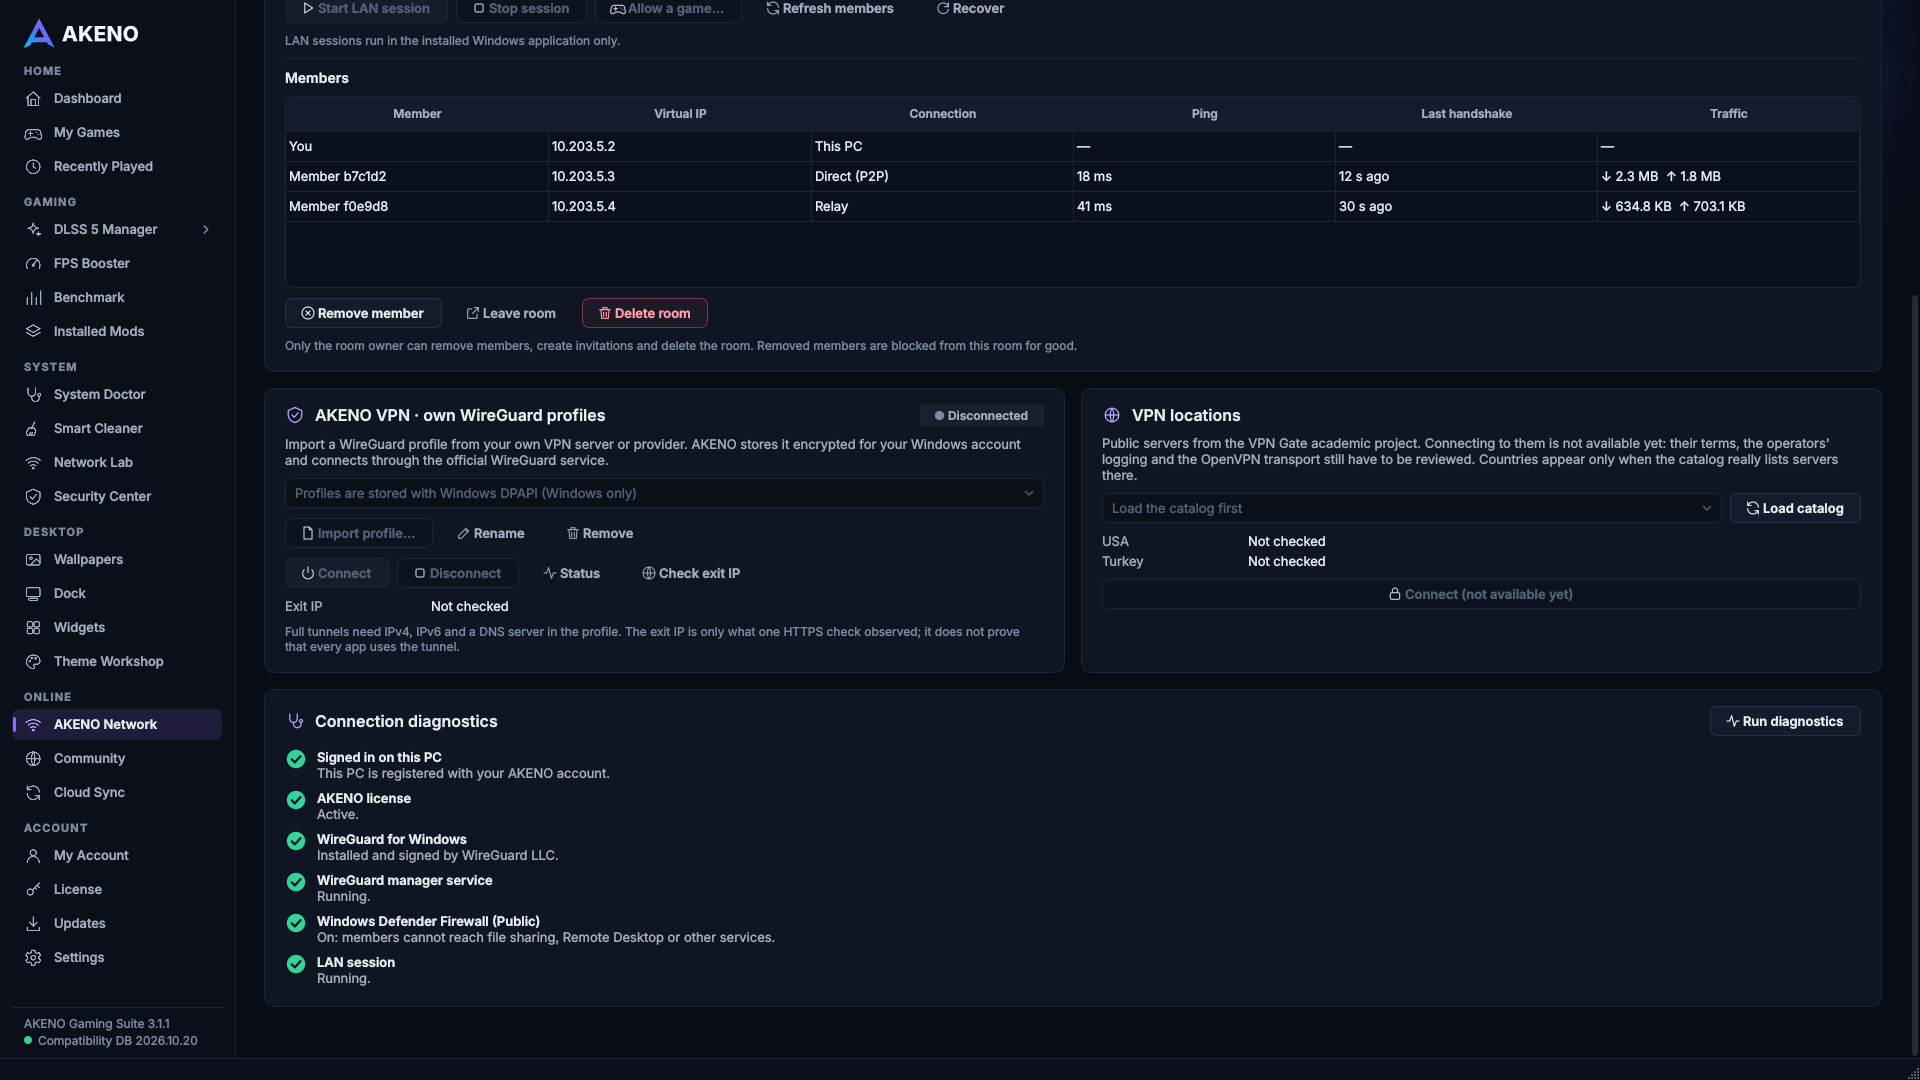
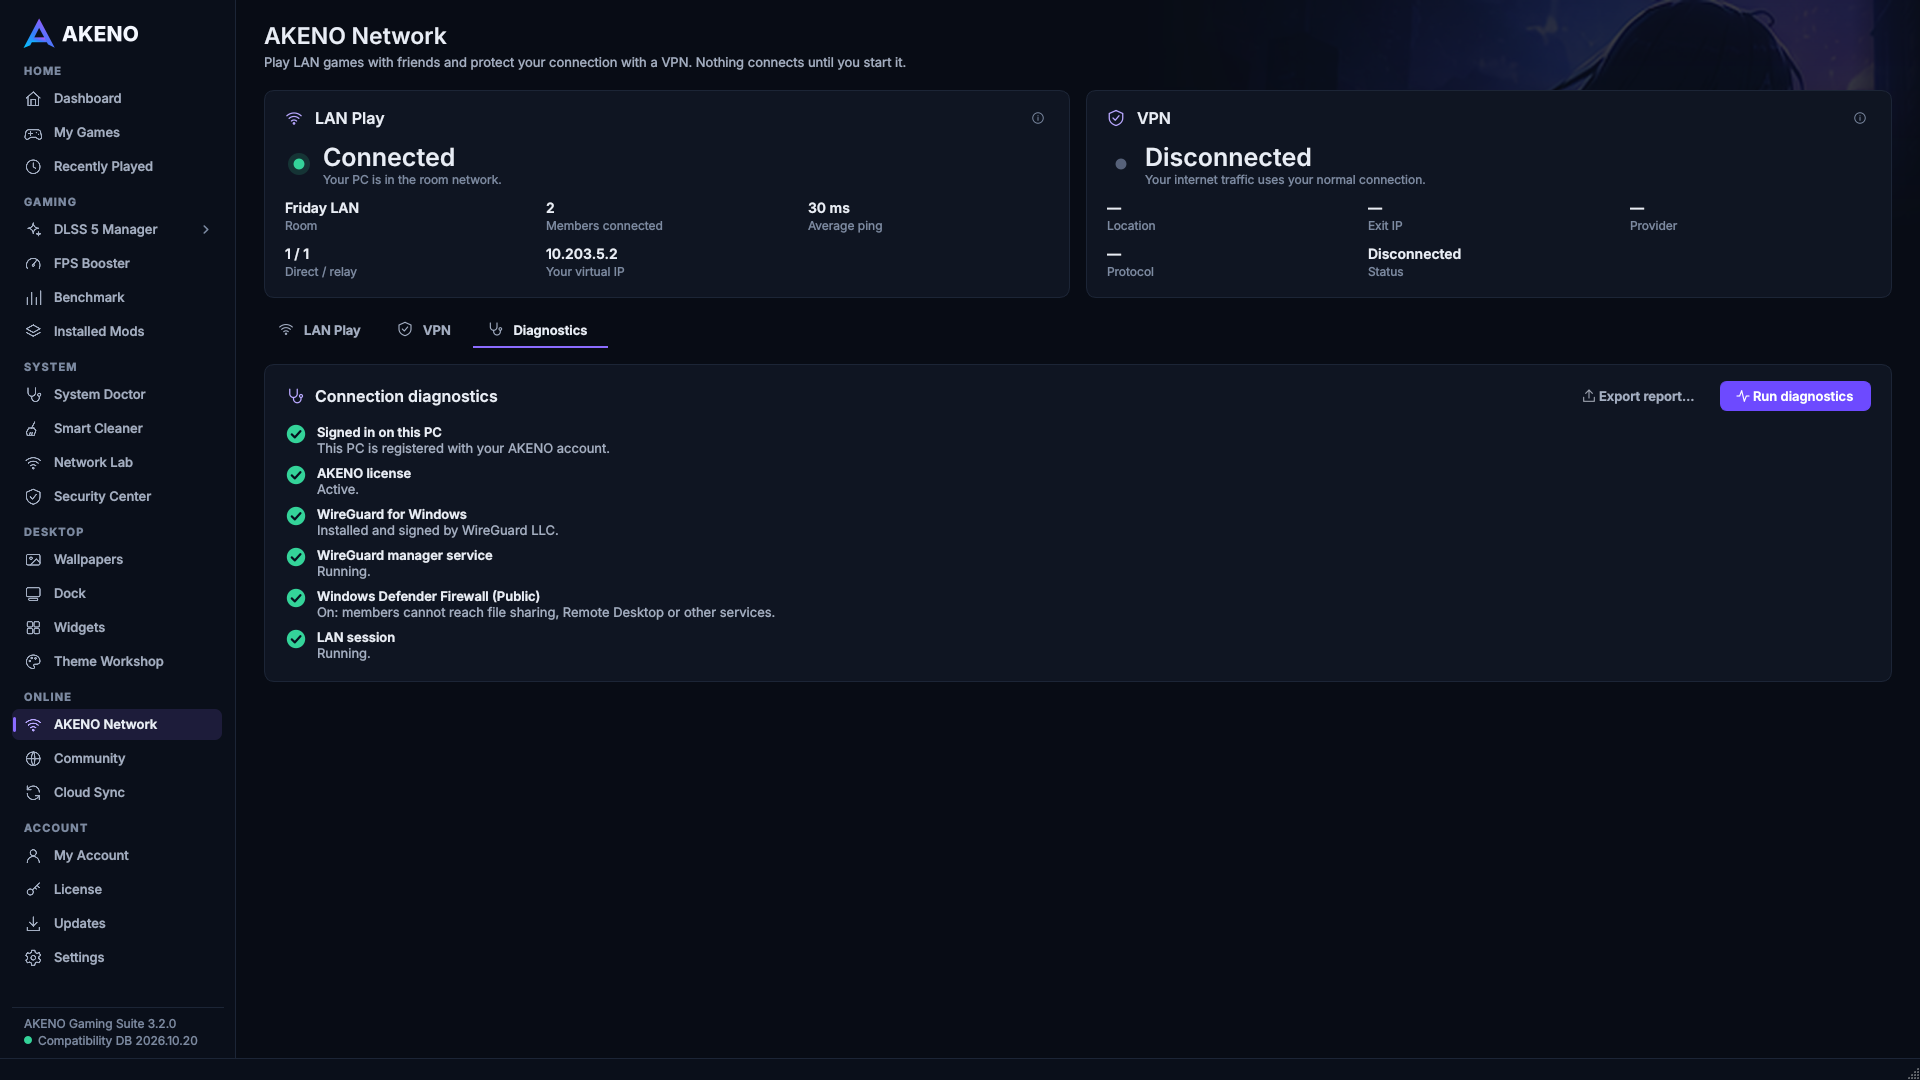
screenshots: regenerated AKENO Network fixture screenshots for the redesign (synthetic data, labelled)
Claude-Session: https://claude.ai/code/session_013cyXYQpfvMVycNXpgoCr1h

diff --git a/akeno/ui/pages/akeno_network.py b/akeno/ui/pages/akeno_network.py
@@ -457,7 +457,7 @@ class AkenoNetworkPage(QWidget):
                 item = QTableWidgetItem(v)
                 if c == 0:
                     item.setData(256, m['actor'])
-                    item.setIcon(QIcon(avatar_pixmap(m['actor'], m.get('name') or ('You' if m.get('self') else 'M'))))
+                    item.setIcon(QIcon(avatar_pixmap(m['actor'], m.get('name') or (t('You') if m.get('self') else 'M'))))
                     if m.get('owner'):
                         item.setToolTip(t('Room owner'))
                 elif c == 2:

diff --git a/screenshots/network-fixtures/README.md b/screenshots/network-fixtures/README.md
@@ -12,4 +12,7 @@ CI links in `docs/AKENO_NETWORK_PROGRESS.md`.
 |---|---|
 | `akeno-network-empty-{en,de}-fixture.png` | No room yet: create or join |
 | `akeno-network-session-{en,de}-fixture.png` | Active LAN session: one direct (P2P) and one relayed member |
+| `akeno-network-vpn-{en,de}-fixture.png` | VPN tab: one fixture own profile; the 8 target countries without AKENO servers (real state) |
 | `akeno-network-diagnostics-{en,de}-fixture.png` | Diagnostics results (fixture rows) |
+
+Regenerated for 3.2.0 (redesign): dashboard, tabs, steps, owner view.
